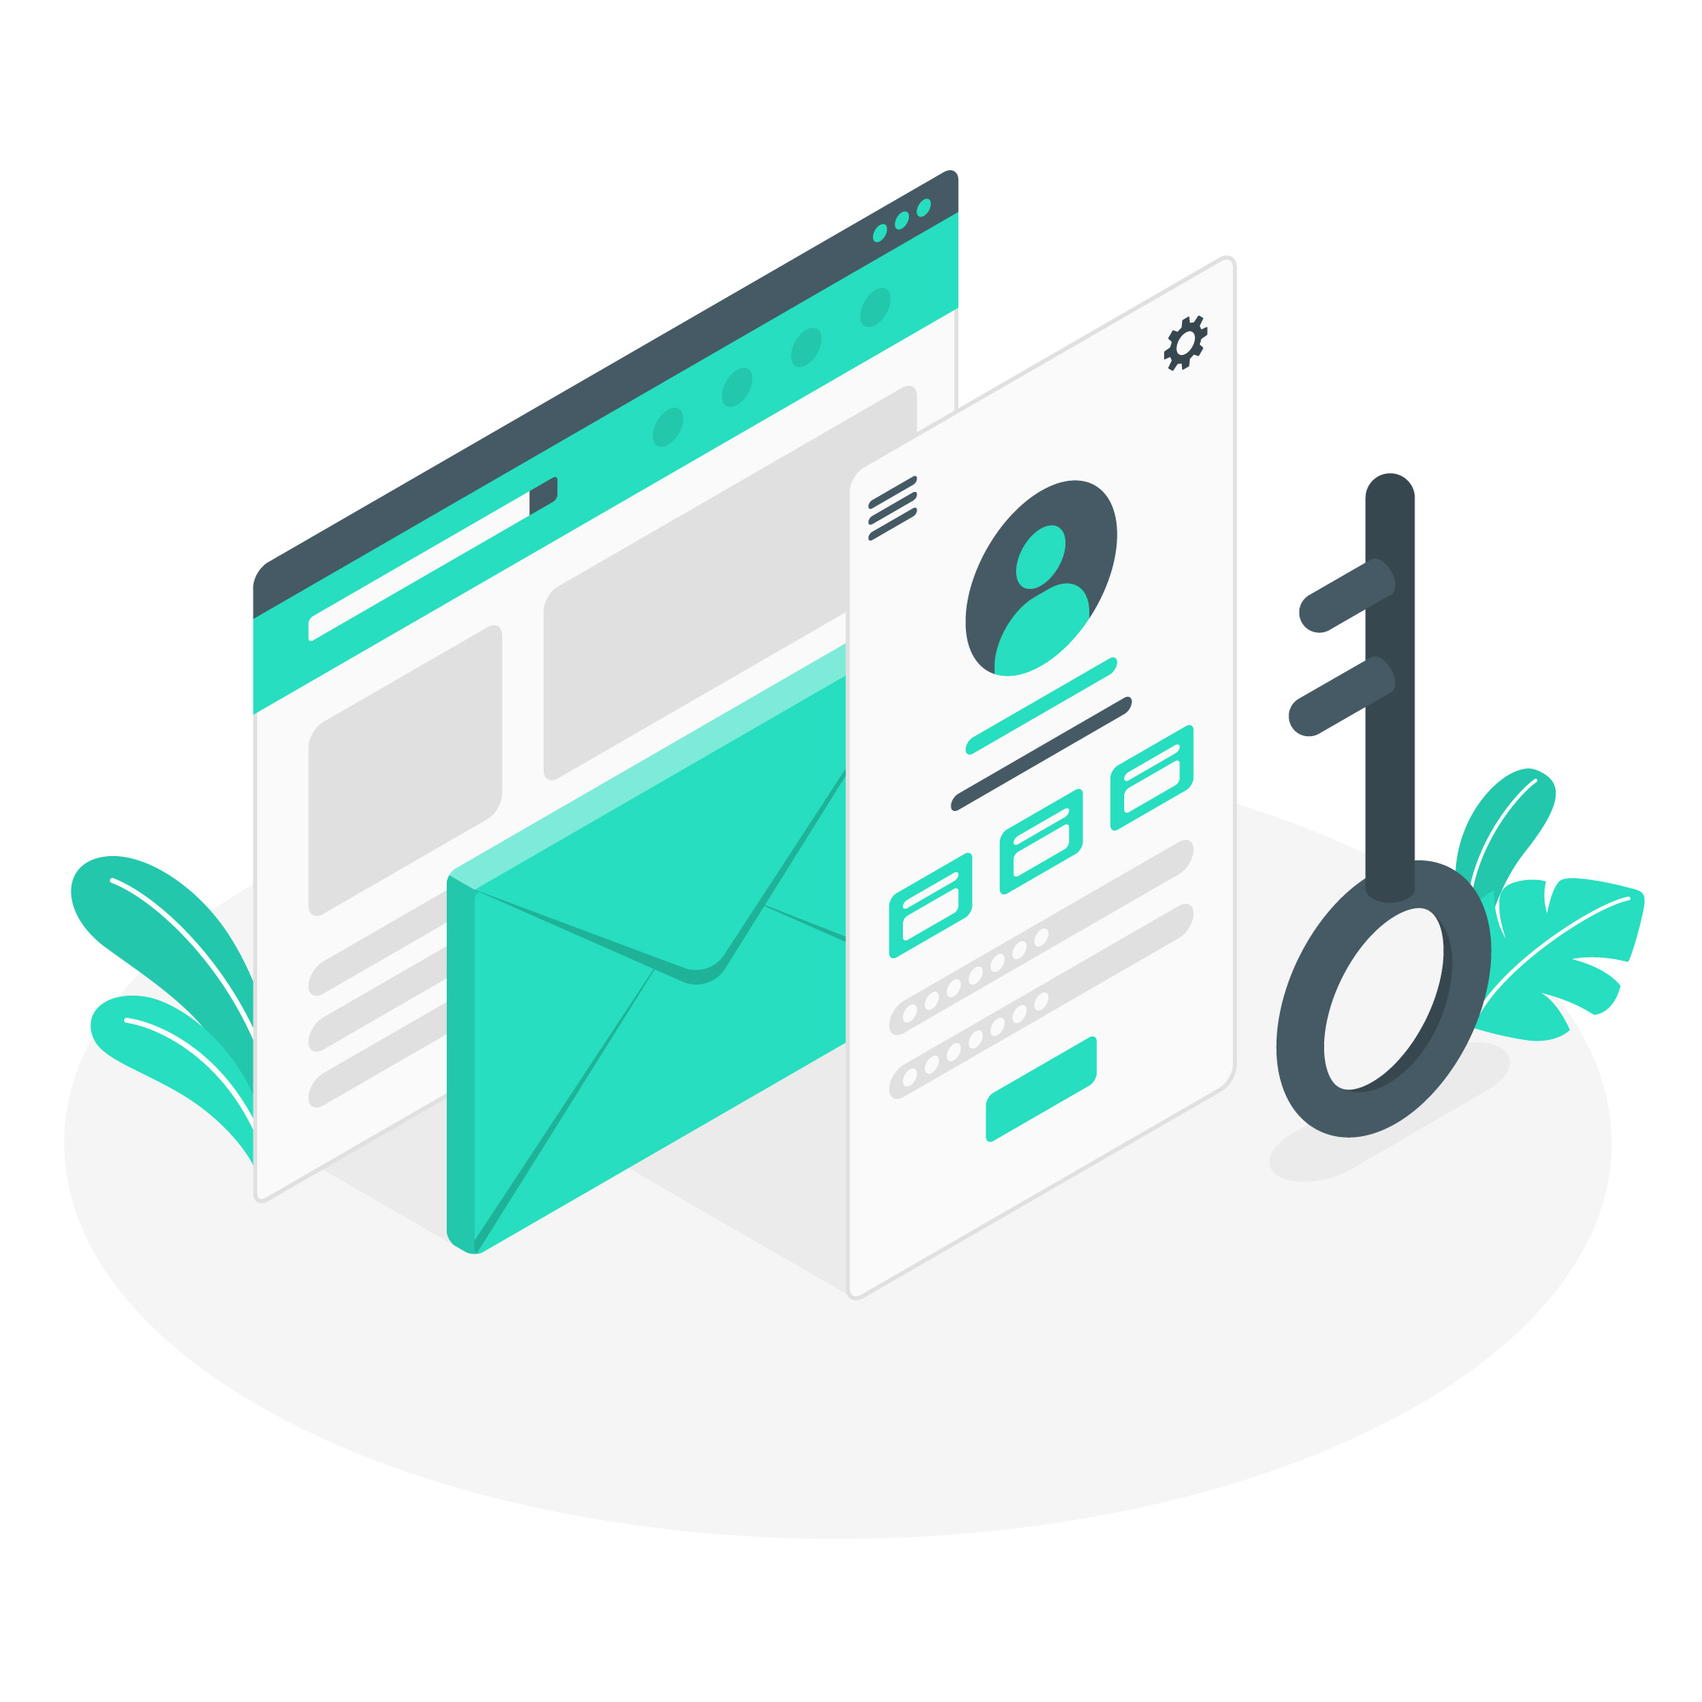
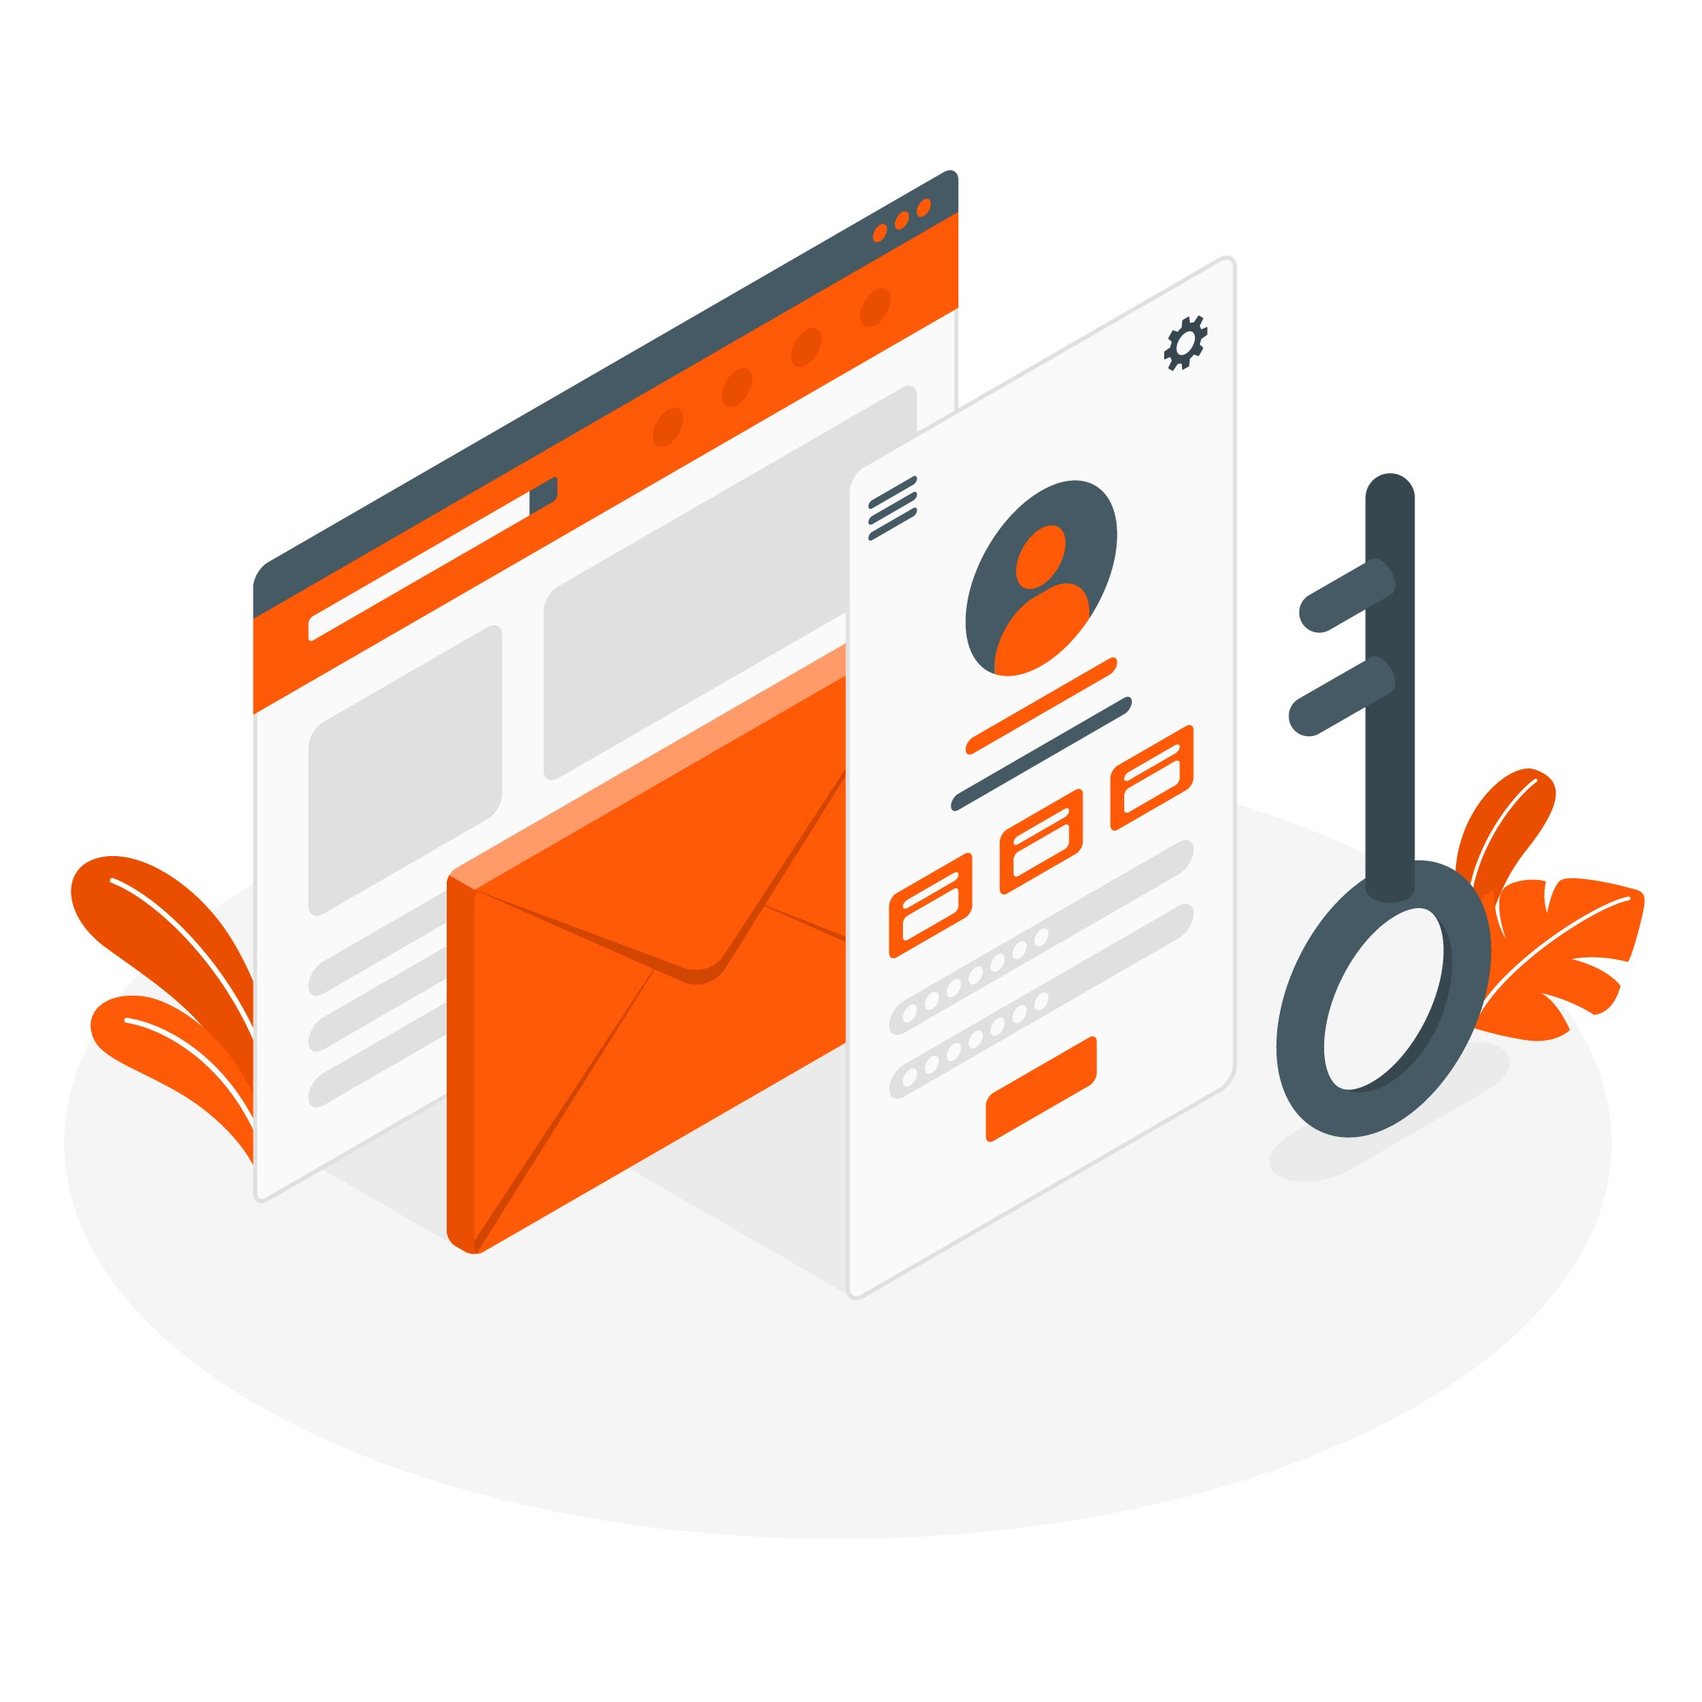
added the estate details route

diff --git a/src/components/banner/Banner.jsx b/src/components/banner/Banner.jsx
@@ -25,12 +25,12 @@ const Banner = () => {
           delay: 2000,
         }}
         speed={2000}
-        className="mySwiper h-[75vh] my-12 rounded-3xl font-para"
+        className="mySwiper h-[75vh] my-12 rounded-3xl font-heading"
       >
         <SwiperSlide>
           <div className="relative">
-            <div className="flex justify-center items-center absolute top-0 right-0 h-[75vh] backdrop-blur-sm bg-[#27dec016] p-12">
-              <h1 className="text-5xl font-bold text-[#fbde77b3]">
+            <div className="flex justify-center items-center absolute top-0 right-0 h-[75vh] backdrop-blur-sm bg-[#ff671b25] p-12">
+              <h1 className="text-5xl font-bold text-[#ff671b]">
                 Find Your Dream <br /> Home Today!
               </h1>
             </div>
@@ -39,8 +39,8 @@ const Banner = () => {
         </SwiperSlide>
         <SwiperSlide>
           <div className="relative">
-            <div className="flex justify-center items-center absolute top-0 right-0 h-[75vh] backdrop-blur-sm bg-[#27dec016] p-12">
-              <h1 className="text-5xl font-bold text-[#0b1c02ba]">
+            <div className="flex justify-center items-center absolute top-0 right-0 h-[75vh] backdrop-blur-sm bg-[#ff671b25] p-12">
+              <h1 className="text-5xl font-bold text-[#ff671b]">
                 Unlock the Door <br /> to Your Future Home
               </h1>
             </div>
@@ -49,8 +49,8 @@ const Banner = () => {
         </SwiperSlide>
         <SwiperSlide>
           <div className="relative">
-            <div className="flex justify-center items-center absolute top-0 right-0 h-[75vh] backdrop-blur-sm bg-[#27dec016] p-12">
-              <h1 className="text-5xl font-bold text-[#27321ed8]">
+            <div className="flex justify-center items-center absolute top-0 right-0 h-[75vh] backdrop-blur-sm bg-[#ff671b25] p-12">
+              <h1 className="text-5xl font-bold text-[#ff671b]">
                 Where Every House <br /> Becomes a Home
               </h1>
             </div>
@@ -59,8 +59,8 @@ const Banner = () => {
         </SwiperSlide>
         <SwiperSlide>
           <div className="relative">
-            <div className="flex justify-center items-center absolute top-0 right-0 h-[75vh] backdrop-blur-sm bg-[#27dec016] p-12">
-              <h1 className="text-5xl font-bold text-[#28310A]">
+            <div className="flex justify-center items-center absolute top-0 right-0 h-[75vh] backdrop-blur-sm bg-[#ff671b25] p-12">
+              <h1 className="text-5xl font-bold text-[#ff671b]">
                 Find Your Sanctuary <br /> in the Heart <br />
                 of the City
               </h1>
@@ -70,8 +70,8 @@ const Banner = () => {
         </SwiperSlide>
         <SwiperSlide>
           <div className="relative">
-            <div className="flex justify-center items-center absolute top-0 right-0 h-[75vh] backdrop-blur-sm bg-[#27dec016] p-12">
-              <h1 className="text-5xl font-bold text-[#28310A]">
+            <div className="flex justify-center items-center absolute top-0 right-0 h-[75vh] backdrop-blur-sm bg-[#ff671b25] p-12">
+              <h1 className="text-5xl font-bold text-[#ff671b]">
                 Building Dreams,
                 <br /> One Home at a Time
               </h1>

diff --git a/src/components/details/Details.jsx b/src/components/details/Details.jsx
@@ -1,0 +1,70 @@
+import { useEffect, useState } from "react";
+import { useParams } from "react-router-dom";
+import { useLoaderData } from "react-router-dom";
+
+const Details = () => {
+  const { id } = useParams();
+  const estates = useLoaderData();
+  const [estate, setEstate] = useState({});
+  const [facilities, setFacilities] = useState([]);
+
+  useEffect(() => {
+    const estate = estates.find((item) => item.id == id);
+
+    setEstate(estate);
+    setFacilities(estate.facilities);
+  }, [id, estates]);
+  console.log(estates);
+  console.log("facilities: ", facilities);
+  return (
+    <div className="font-para">
+      <h2 className="text-black text-6xl font-bold pb-3 text-center font-heading">
+        <span className="text-[#ff671b]">{estate.title}</span> {estate.segment}{" "}
+        area <br />
+        for <span className="text-[#ff671b]">{estate.status}</span>
+      </h2>
+      <div className="grid lg:grid-cols-2 container mx-auto w-11/12 lg:w-full gap-6 space-y-6 my-10">
+        <div className="flex justify-center items-center rounded-2xl">
+          <img src={estate.img} alt="" className="w-1/2 rounded-2xl " />
+        </div>
+        <div>
+          <p className="  font-medium text-[#131313CC] text-xl">
+            Price starting from{" "}
+            <span className="text-[#ff671b] text-3xl font-bold">
+              {estate.price}
+            </span>{" "}
+            having an area of{" "}
+            <span className="text-[#ff671b] text-3xl font-bold">
+              {estate.area}
+            </span>
+          </p>
+          <p className=" font-medium text-[#131313CC] text-xl"></p>
+          <p className="my-6 leading-[26px] text-xl">
+            <span className="font-bold">Details: </span>
+            {estate.description}
+          </p>
+          <div className="flex gap-6 my-6 items-center text-xl">
+            <p>
+              <span className="font-bold">Location:</span> {estate.location}
+            </p>
+          </div>
+          <div className="my-6">
+            <h3 className="text-xl font-bold">Facilities:</h3>
+            {facilities.map((item, idx) => (
+              <li className="text-xl" key={idx}>
+                {item}
+              </li>
+            ))}
+          </div>
+          <div className="flex gap-4 mt-6">
+            <button className="btn btn-outline px-7 text-lg text-[#ff671b]">
+              Book Property
+            </button>
+          </div>
+        </div>
+      </div>
+    </div>
+  );
+};
+
+export default Details;

diff --git a/src/components/register/Register.jsx b/src/components/register/Register.jsx
@@ -10,8 +10,10 @@ const Register = () => {
   return (
     <div className="min-h-[80vh] bg-log-reg-bg bg-cover bg-center bg-no-repeat rounded-2xl my-6 flex items-center font-para">
       <div className=" flex items-center w-10/12 mx-auto">
-        <form className="h-[65vh] w-full flex flex-col justify-center gap-4 p-6 backdrop-blur-sm bg-[#27dec04a] rounded-l-xl">
-          <h1 className="font-bold text-4xl text-center">Register Now!</h1>
+        <form className="h-[65vh] w-full flex flex-col justify-center gap-4 p-6 backdrop-blur-sm bg-[#ff671b25] rounded-l-xl">
+          <h1 className="font-bold text-5xl font-hading text-center text-white">
+            Register Now!
+          </h1>
           <label className="input flex items-center gap-2">
             <svg
               xmlns="http://www.w3.org/2000/svg"
@@ -85,14 +87,14 @@ const Register = () => {
               {viewConfirmPass ? <FaRegEye /> : <FaRegEyeSlash />}
             </a>
           </label>
-          <div className="flex gap-2">
+          <div className="flex gap-2 justify-start font-medium items-center">
             <input type="checkbox" />
             <h3 className="text-white">Accept terms & conditions</h3>
           </div>
-          <button className="btn bg-[#27DEC0] hover:bg-[#27DEC0] border-0 text-2xl">
+          <button className="btn bg-[#ff671b] hover:bg-[#ff671b] border-0 text-2xl text-white">
             Register
           </button>
-          <p className="text-white text-center">
+          <p className="text-white font-medium text-center">
             Already registered? Proceed to{" "}
             <Link className="underline" to={"/login"}>
               Login

diff --git a/src/components/estatesCard/EstatesCard.jsx b/src/components/estatesCard/EstatesCard.jsx
@@ -1,25 +1,32 @@
 import PropTypes from "prop-types";
 import { MdArrowOutward } from "react-icons/md";
+import { Link } from "react-router-dom";
 const EstatesCard = ({ estate }) => {
   const { img } = estate;
   console.log(img);
   return (
     <div className="relative">
       <img src={img} alt="" className="rounded-lg" />
-      <div className="backdrop-blur-sm bg-[#27dec016] rounded-b-lg absolute bottom-0 w-full p-4">
+      <div className="backdrop-blur-sm bg-[#ff671b25] rounded-b-lg absolute bottom-0 w-full p-4">
         <div className="flex gap-6">
-          <p className="btn btn-sm bg-[#39ddcd83] border-0">{estate.price}</p>
-          <p className="btn btn-sm bg-[#39ddcd83] border-0">{estate.status}</p>
+          <p className="btn btn-sm bg-[#ff671b] border-0 text-white hover:bg-[#ff671bcb]">
+            {estate.price}
+          </p>
+          <p className="btn btn-sm bg-[#ff671b] border-0 text-white hover:bg-[#ff671bcb]">
+            {estate.status}
+          </p>
         </div>
         <div>
           <h3 className="text-2xl font-medium my-3 text-white">
             {estate.title}
           </h3>
         </div>
-        <div className="text-white flex gap-2 justify-center items-center btn btn-outline hover:bg-[#39ddcd83]">
-          <MdArrowOutward />
-          <p>See Details</p>
-        </div>
+        <Link to={`/details/${estate.id}`}>
+          <div className="text-white text-xl font-semibold flex gap-2 justify-center items-center btn bg-[#ff671b] hover:bg-[#ff671bcb]">
+            <MdArrowOutward />
+            <p>View Property</p>
+          </div>
+        </Link>
       </div>
     </div>
   );

diff --git a/src/components/realtor/Realtor.jsx b/src/components/realtor/Realtor.jsx
@@ -1,0 +1,50 @@
+import icon1 from "../../assets/icon1.svg";
+import icon2 from "../../assets/icon2.svg";
+import icon3 from "../../assets/icon3.svg";
+
+const Realtor = () => {
+  return (
+    <div>
+      <div className="text-center my-12">
+        <h3 className="font-heading text-5xl font-bold">
+          Get Services from{" "}
+          <span className="text-[#ff671b]">Experienced Realtor</span>
+        </h3>
+        <p className="font-para text-xl font-medium">
+          For a smooth and successful real estate transaction, consider
+          partnering with an experienced realtor who can guide you through the
+          process.
+        </p>
+      </div>
+      <div className="flex justify-between">
+        <div>
+          <img src={icon1} alt="" />
+          <h4>Buy A Property</h4>
+          <p>
+            Negotiating the complexities of buying a house can be smoother
+            sailing with the guidance of an experienced realtor.
+          </p>
+        </div>
+        <div>
+          <img src={icon2} alt="" />
+          <h4>Sell A Property</h4>
+          <p>
+            Listing your house can be complex, so consider partnering with an
+            experienced realtor to ensure a smooth and successful sale.
+          </p>
+        </div>
+        <div>
+          <img src={icon3} alt="" />
+          <h4>Rent A Property</h4>
+          <p>
+            Negotiating the rental market can be tricky, so consider partnering
+            with an experienced realtor to find your dream house with
+            confidence.
+          </p>
+        </div>
+      </div>
+    </div>
+  );
+};
+
+export default Realtor;

diff --git a/src/components/navbar/Navbar.jsx b/src/components/navbar/Navbar.jsx
@@ -6,7 +6,9 @@ const Navbar = () => {
       <li>
         <NavLink
           to="/"
-          className={({ isActive }) => (isActive ? "underline" : "")}
+          className={({ isActive }) =>
+            isActive ? "text-[#ff671b] underline" : ""
+          }
         >
           Home
         </NavLink>
@@ -14,7 +16,9 @@ const Navbar = () => {
       <li>
         <NavLink
           to="/contact"
-          className={({ isActive }) => (isActive ? "underline" : "")}
+          className={({ isActive }) =>
+            isActive ? "text-[#ff671b] underline" : ""
+          }
         >
           Contact
         </NavLink>
@@ -22,7 +26,9 @@ const Navbar = () => {
       <li>
         <NavLink
           to="/update-profile"
-          className={({ isActive }) => (isActive ? "underline" : "")}
+          className={({ isActive }) =>
+            isActive ? "text-[#ff671b] underline" : ""
+          }
         >
           Update Profile
         </NavLink>
@@ -66,13 +72,13 @@ const Navbar = () => {
         </div>
         <div className="navbar-end gap-3 font-para">
           <Link to={"/login"}>
-            <button className="btn btn-sm bg-[#27DEC0] hover:bg-[#27DEC0] text-lg">
+            <button className="btn btn-sm bg-[#ff671b] hover:bg-[#ff671bcb] text-lg">
               Login
             </button>
           </Link>
           <p>Or</p>
           <Link to={"/register"}>
-            <button className="btn btn-sm bg-[#27DEC0] hover:bg-[#27DEC0] text-lg">
+            <button className="btn btn-sm bg-[#ff671b] hover:bg-[#ff671bcb] text-lg">
               Register
             </button>
           </Link>

diff --git a/src/components/login/Login.jsx b/src/components/login/Login.jsx
@@ -8,8 +8,10 @@ const Login = () => {
   return (
     <div className="min-h-[80vh] bg-log-reg-bg bg-cover bg-center bg-no-repeat rounded-2xl my-6 flex items-center font-para">
       <div className=" flex items-center w-10/12 mx-auto">
-        <form className="h-[65vh] w-full flex flex-col justify-center gap-4 p-6 backdrop-blur-sm bg-[#27dec04a] rounded-l-xl">
-          <h1 className="font-bold text-4xl text-center">Login Now!</h1>
+        <form className="h-[65vh] w-full flex flex-col justify-center gap-4 p-6 backdrop-blur-sm bg-[#ff671b25] rounded-l-xl">
+          <h1 className="font-bold font-heading text-white text-5xl text-center">
+            Login Now!
+          </h1>
           <label className="input flex items-center gap-2">
             <svg
               xmlns="http://www.w3.org/2000/svg"
@@ -45,13 +47,13 @@ const Login = () => {
               {viewPass ? <FaRegEye /> : <FaRegEyeSlash />}
             </a>
           </label>
-          <a href="#" className="text-white hover:underline">
+          <a href="#" className="text-white font-medium hover:underline">
             Forgot Password?
           </a>
-          <button className="btn bg-[#27DEC0] hover:bg-[#27DEC0] border-0 text-2xl">
+          <button className="btn bg-[#ff671b] hover:bg-[#ff671b] border-0 text-2xl text-white">
             Login
           </button>
-          <p className="text-white text-center">
+          <p className="text-white text-center font-medium">
             Not registered yet? Proceed to{" "}
             <Link className="underline" to={"/register"}>
               Register

diff --git a/src/components/estates/Estates.jsx b/src/components/estates/Estates.jsx
@@ -18,12 +18,13 @@ const Estates = () => {
   //   console.log(estates);
   return (
     <div>
-      <h1 className="text-4xl font-bold my-3 text-center">
-        Explore Our Diverse Commercial Real Estate Offerings
+      <h1 className="text-5xl font-heading font-bold my-24 text-center">
+        Explore Our Diverse{" "}
+        <span className="text-[#ff671b]">Commercial Real Estate</span> Offerings
       </h1>
       <div className="grid grid-cols-4 justify-center items-center gap-6">
         <div className="col-span-1">
-          <p className="text-lg">
+          <p className="text-xl font-medium font-para">
             Explore a diverse array of office buildings, retail spaces,
             warehouses, industrial facilities, restaurants, and entertainment
             venues. Each estate is meticulously selected to offer prime
@@ -44,7 +45,7 @@ const Estates = () => {
               delay: 2000,
             }}
             speed={2000}
-            className="mySwiper h-[75vh] my-12 rounded-3xl font-para"
+            className="mySwiper h-[75vh] my-12 rounded-lg font-para"
           >
             {estates.map((estate, idx) => (
               <SwiperSlide key={idx}>

diff --git a/src/routes/Routes.jsx b/src/routes/Routes.jsx
@@ -4,6 +4,7 @@ import Home from "../components/home/Home";
 import Login from "../components/login/Login";
 import Register from "../components/register/Register";
 import Contact from "../components/contact/Contact";
+import Details from "../components/details/Details";
 
 const router = createBrowserRouter([
   {
@@ -25,6 +26,11 @@ const router = createBrowserRouter([
       {
         path: "/contact",
         element: <Contact />,
+      },
+      {
+        path: "/details/:id",
+        element: <Details />,
+        loader: () => fetch("/estate.json"),
       },
     ],
   },

diff --git a/src/components/home/Home.jsx b/src/components/home/Home.jsx
@@ -1,13 +1,13 @@
 import Banner from "../banner/Banner";
 import Estates from "../estates/Estates";
+import Realtor from "../realtor/Realtor";
 
 const Home = () => {
   return (
     <div>
       <Banner />
-      <div className="font-para">
-        <Estates />
-      </div>
+      <Estates className="font-para" />
+      <Realtor />
     </div>
   );
 };
